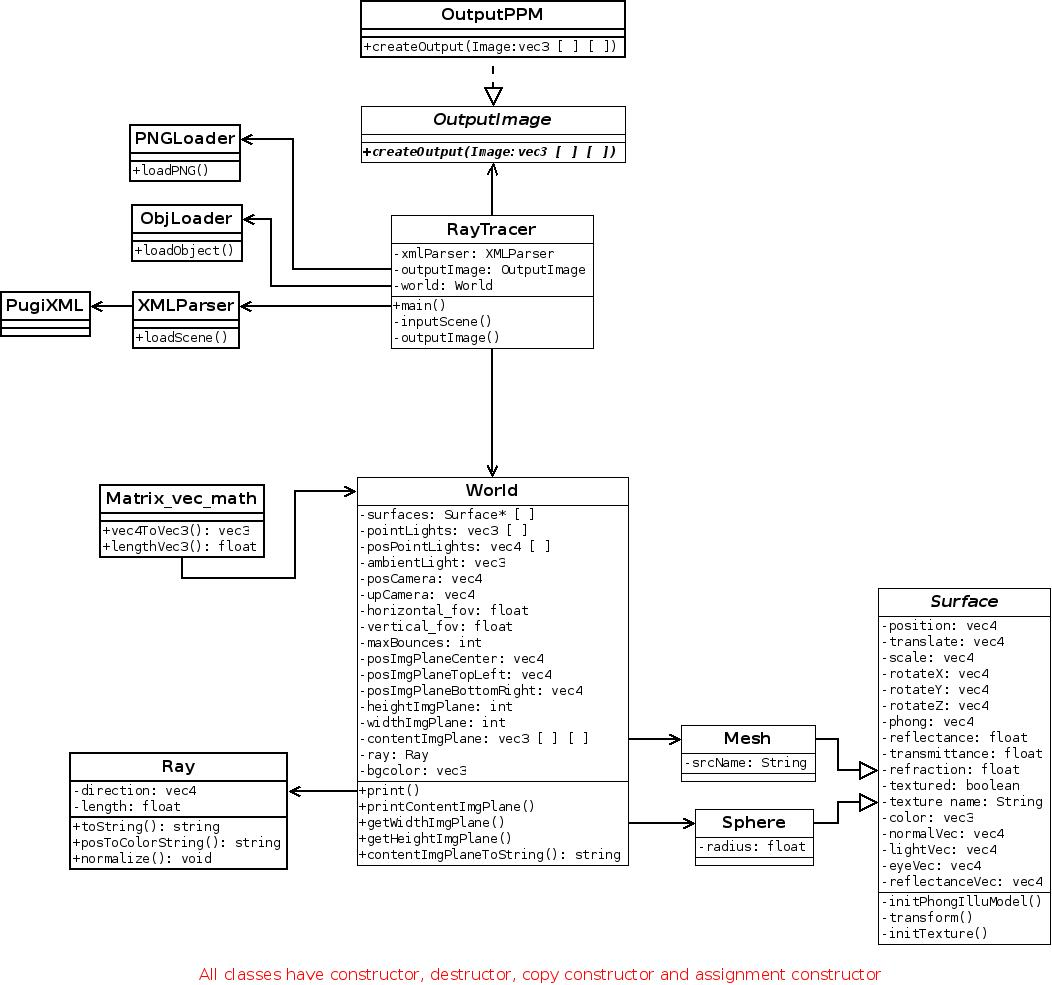
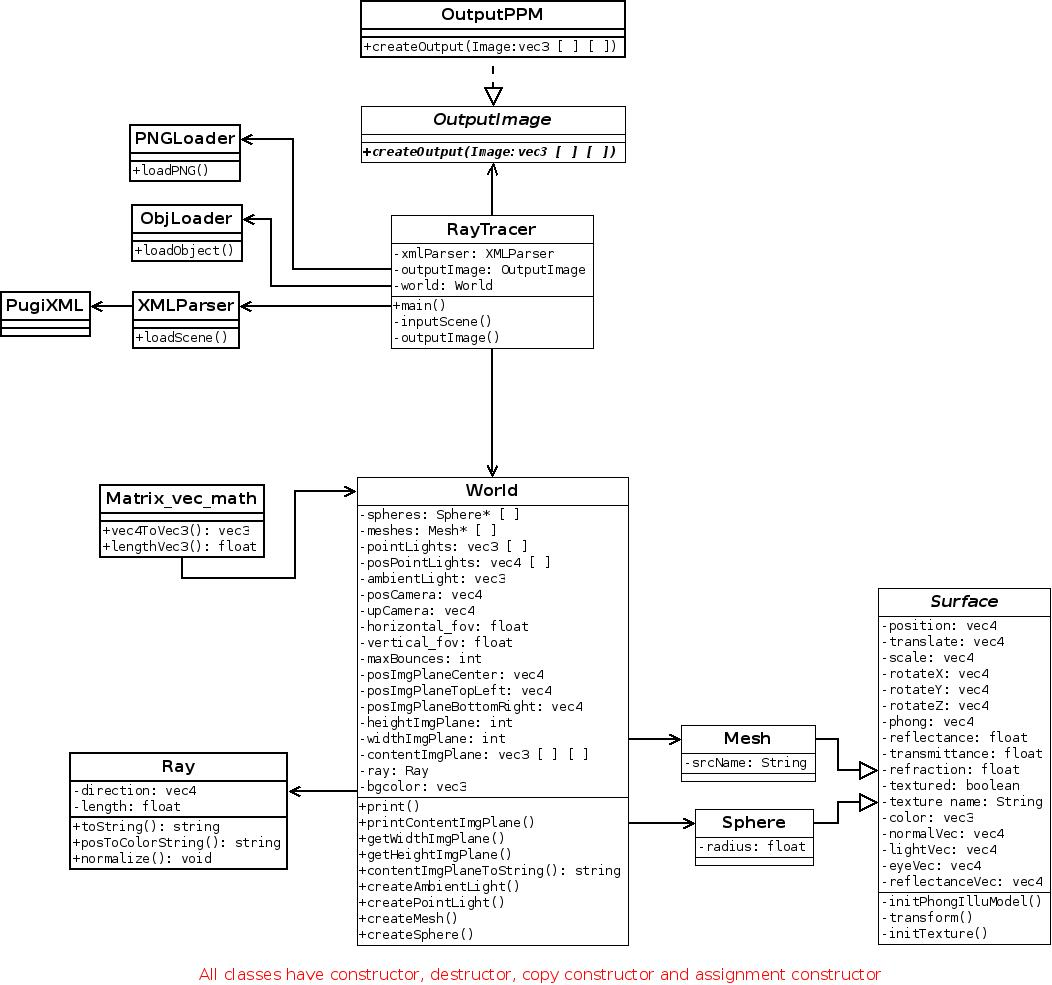
improved class world by adding sphere list to it

Changed region(s): [[0.3346, 0.5178, 0.5779, 0.9746]]

diff --git a/ray_tracer/World.cpp b/ray_tracer/World.cpp
@@ -19,6 +19,8 @@
 #include "../libs/glm/glm/gtx/string_cast.hpp"
 #include "Matrix_vec_math.h"
 #include "World.h"
+#include "Sphere.h"
+#include "Mesh.h"
 using namespace std;
 
 World::World( glm::vec4 posCamera, glm::vec4 upCamera, glm::vec4 lookAtCamera, \
@@ -26,6 +28,7 @@ World::World( glm::vec4 posCamera, glm::vec4 upCamera, glm::vec4 lookAtCamera, \
 
 
 	//INIT VARS FROM PARAMETERS
+	this->spheres = 0;
 	this->posCamera = posCamera;
 	this->upCamera = upCamera;
 	this->lookAtCamera = lookAtCamera;
@@ -68,8 +71,9 @@ World::World( glm::vec4 posCamera, glm::vec4 upCamera, glm::vec4 lookAtCamera, \
 
 
 	//COMPUTE INTERSECTIONS WITH SPHERES
-	Ray rayNorm( glm::vec4( 1.0, 1.0, -5.0, 1.0 ) );
-	rayNorm.normalize();
+	Ray rayIntersect( glm::vec4( 1.0, 1.0, -5.0, 1.0 ) );
+	rayIntersect.normalize();
+	//pow ( (2 * posCamera * rayIntersect - 2 * posCamera * posSphere * rayIntersect), 2 ) - 4 * pow( rayIntersect, 2) * ( posCamera - posSphere ) - radius;
 
 
 	//SHOOT RAYS TO THE CENTER OF EVERY PIXEL ON THE IMAGE PLANE
@@ -109,19 +113,20 @@ World::World( glm::vec4 posCamera, glm::vec4 upCamera, glm::vec4 lookAtCamera, \
 
 };
 World::~World(){ };
-World::World( const World& project){
+World::World( const World& world){
 	cerr << "Copy assignment constructor should not be used!" << endl;
 
 	//INIT VARS FROM PARAMETERS
-	this->posCamera = project.posCamera;
-	this->upCamera = project.upCamera;
-	this->lookAtCamera = project.lookAtCamera;
-	this->horizontal_fov = project.horizontal_fov;
-	this->vertical_fov = project.vertical_fov;
-	this->heightImgPlane = project.heightImgPlane;
-	this->widthImgPlane = project.widthImgPlane;
-	this->maxBounces = project.maxBounces;
-	this->bgcolor = project.bgcolor;
+	this->spheres = world.spheres;
+	this->posCamera = world.posCamera;
+	this->upCamera = world.upCamera;
+	this->lookAtCamera = world.lookAtCamera;
+	this->horizontal_fov = world.horizontal_fov;
+	this->vertical_fov = world.vertical_fov;
+	this->heightImgPlane = world.heightImgPlane;
+	this->widthImgPlane = world.widthImgPlane;
+	this->maxBounces = world.maxBounces;
+	this->bgcolor = world.bgcolor;
 
 
 	//COMPUTE TOPLEFT AND BOTTOMRIGHT OF IMGPLANE
@@ -171,6 +176,13 @@ World::World( const World& project){
 
 };
 World& World::operator=( const World& ){ return *this; };
+
+void World::createSphere( Sphere sphere ){
+	;
+}
+void World::createMesh( Mesh mesh ){
+	;
+}
 
 void World::print(){
 	cout << endl;

diff --git a/ray_tracer/World.h b/ray_tracer/World.h
@@ -14,8 +14,13 @@
 #include "../libs/glm/glm/vec3.hpp"
 #include "../libs/glm/glm/vec4.hpp"
 #include "Ray.h"
+#include "Sphere.h"
+#include "Mesh.h"
 
 class World{
+
+	//World
+	Sphere* spheres;
 
 	//Camera
 	glm::vec4 posCamera;
@@ -44,6 +49,8 @@ public:
 	World( glm::vec4 posCamera, glm::vec4 upCamera, glm::vec4 lookAtCamera, \
 			double horizontal_fov, double vertical_fov, int maxBounces, int heightImgPlane, int widthImgPlane, glm::vec3 bgcolor );
 	virtual ~World();
+	void createSphere( Sphere sphere );
+	void createMesh( Mesh mesh );
 	void print();
 	void printContentImgPlane();
 	std::string contentImgPlaneToString();
